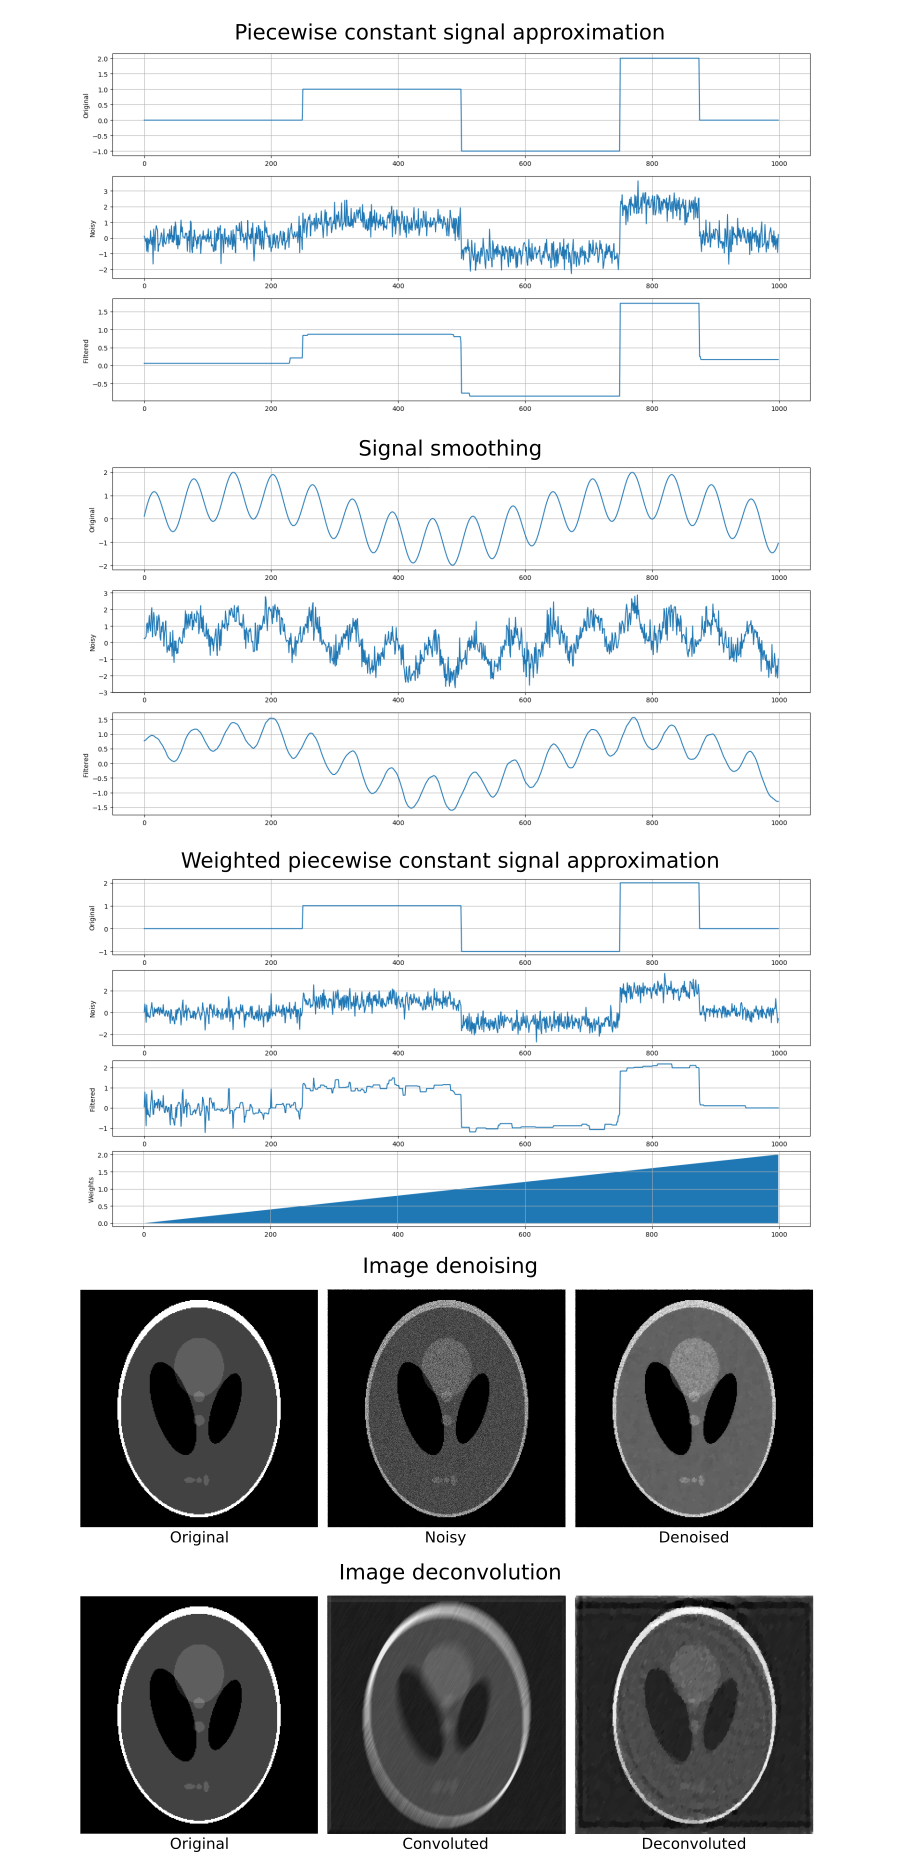
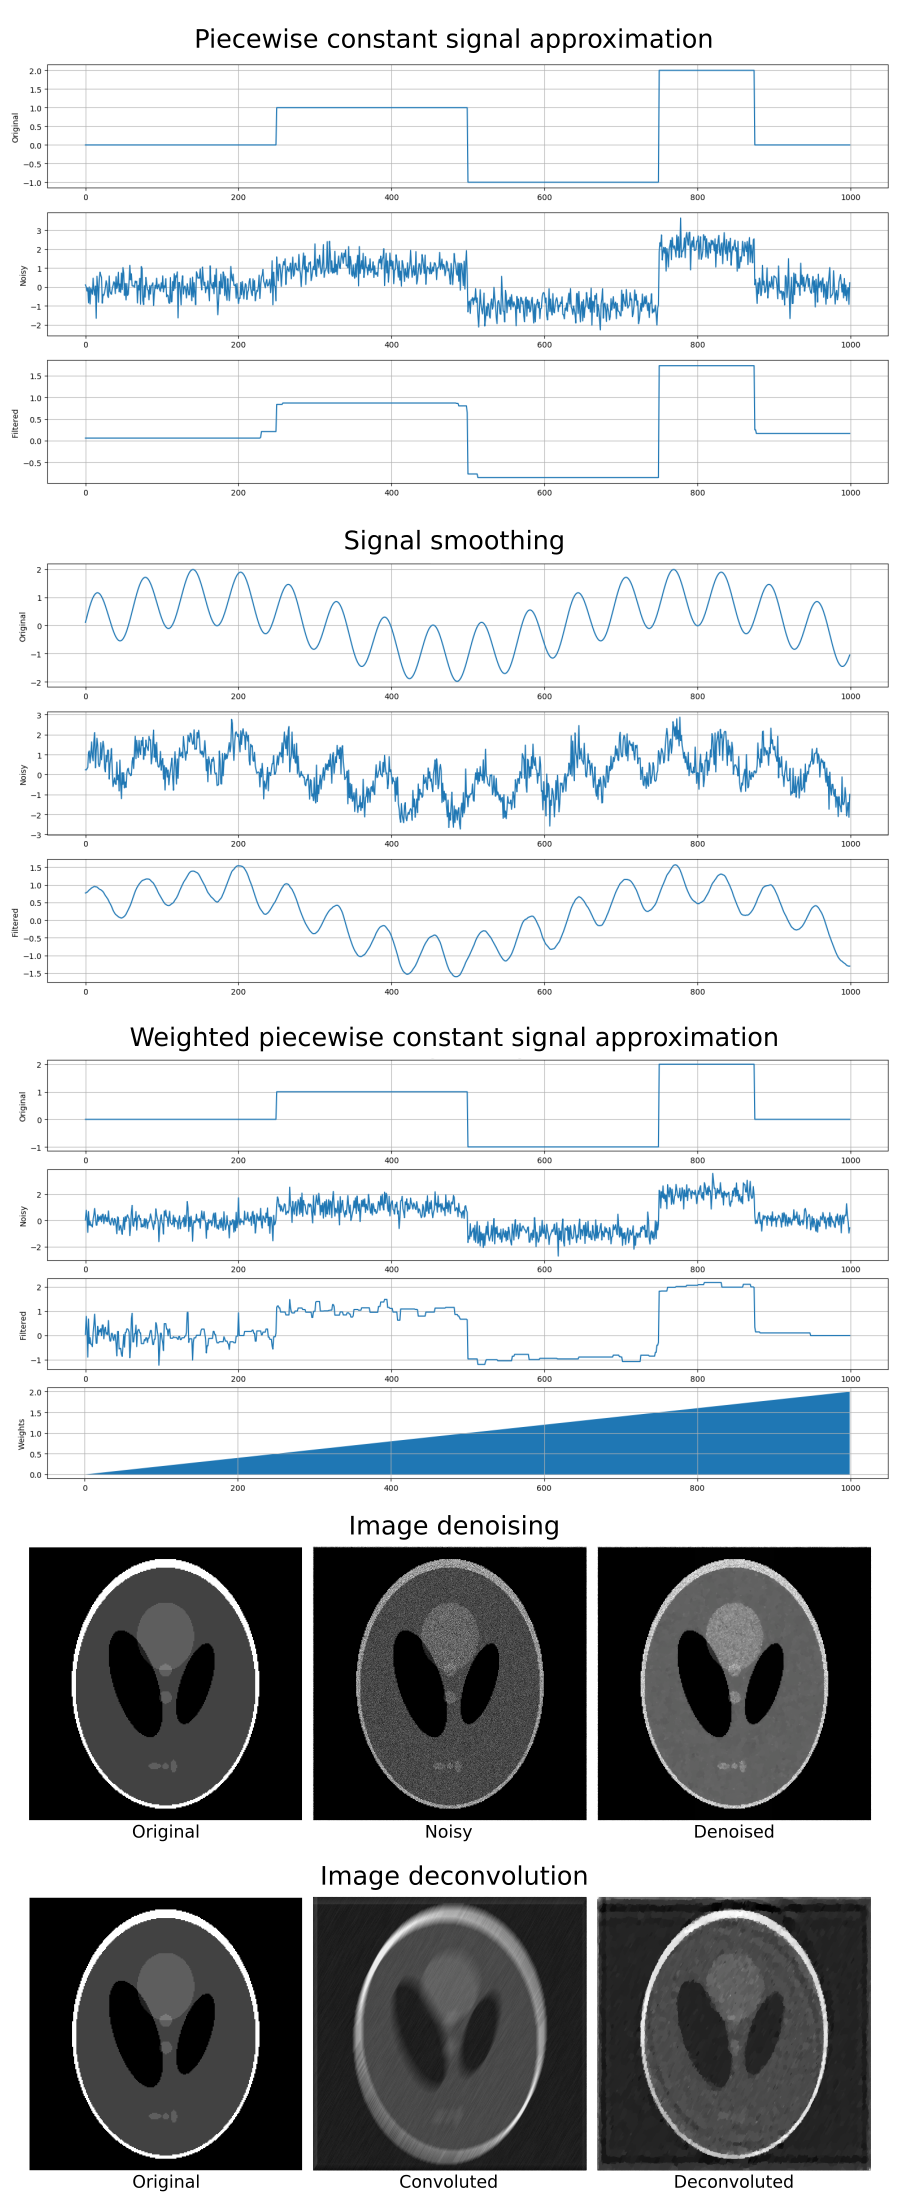
More image quality for gallery

diff --git a/README.md b/README.md
@@ -9,7 +9,7 @@
 Some examples of applications using **proxTV**:
 
 <div align="center">
-  <img src="docs/img/proxTVgallery.png" width="600"><br>
+  <img src="docs/img/proxTVgallery.png" width="900"><br>
 </div>
 
 and others, such as Fused Lasso signal filtering, Fused Lasso classification and regression, lp-norm signal filtering, weighted image denosing, video denosing, tensor denoising, ...
